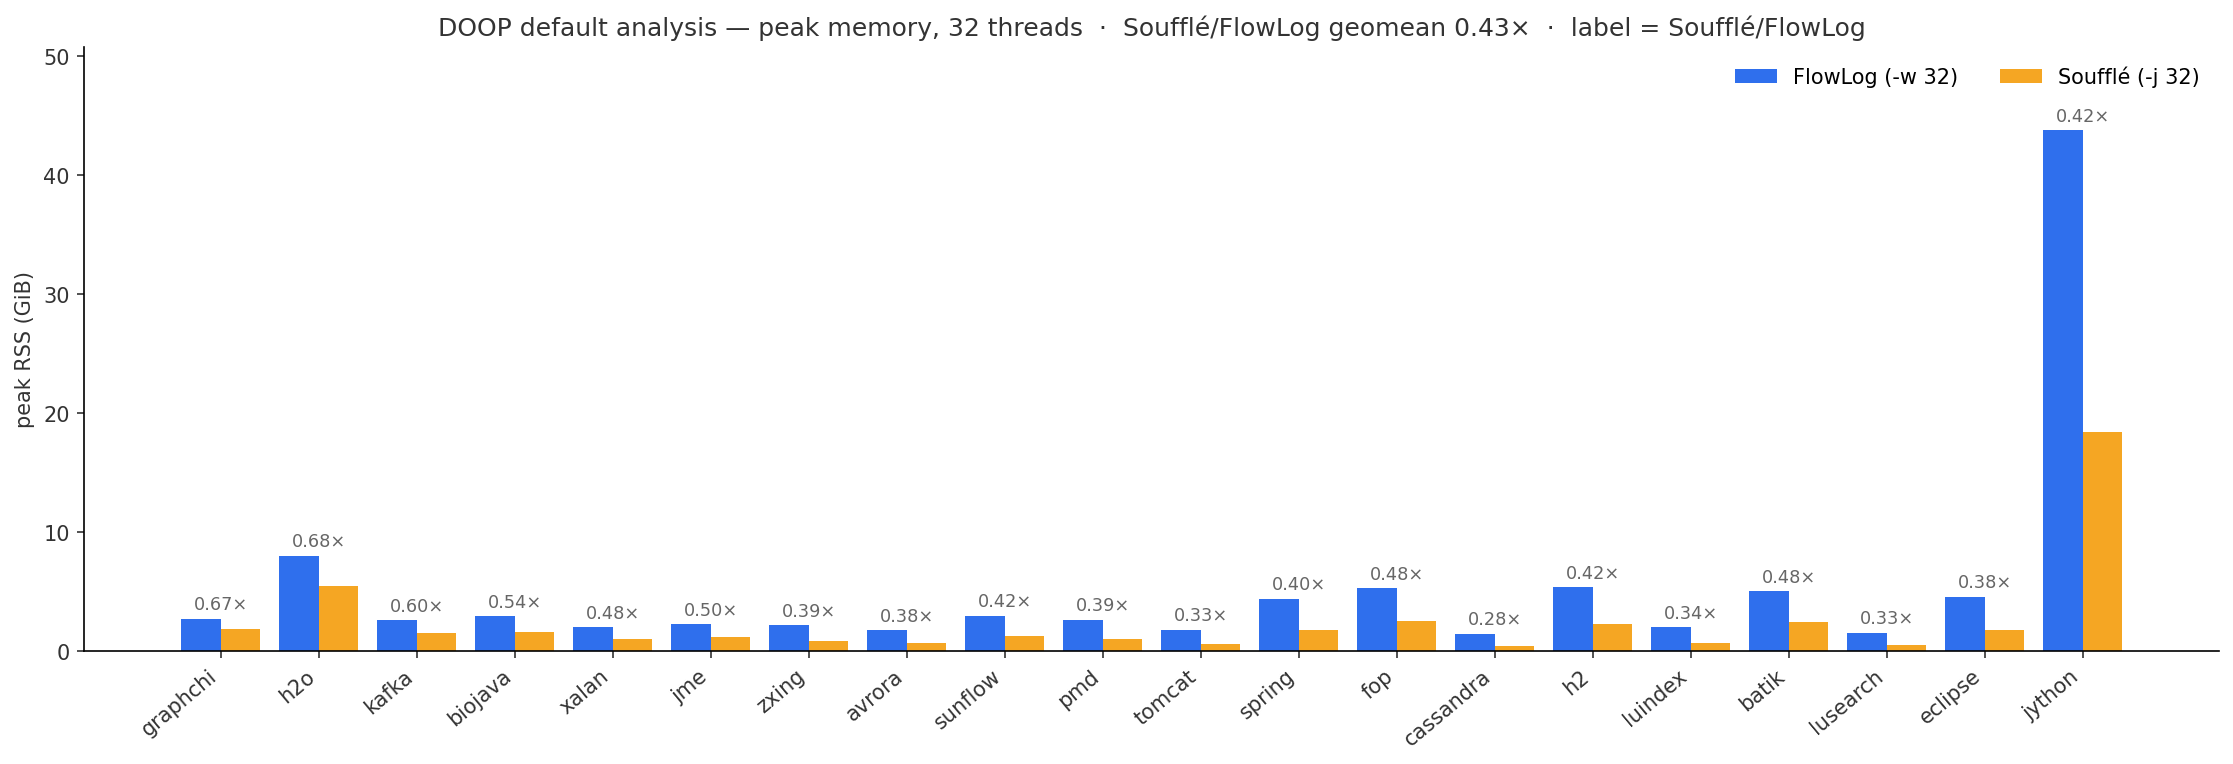
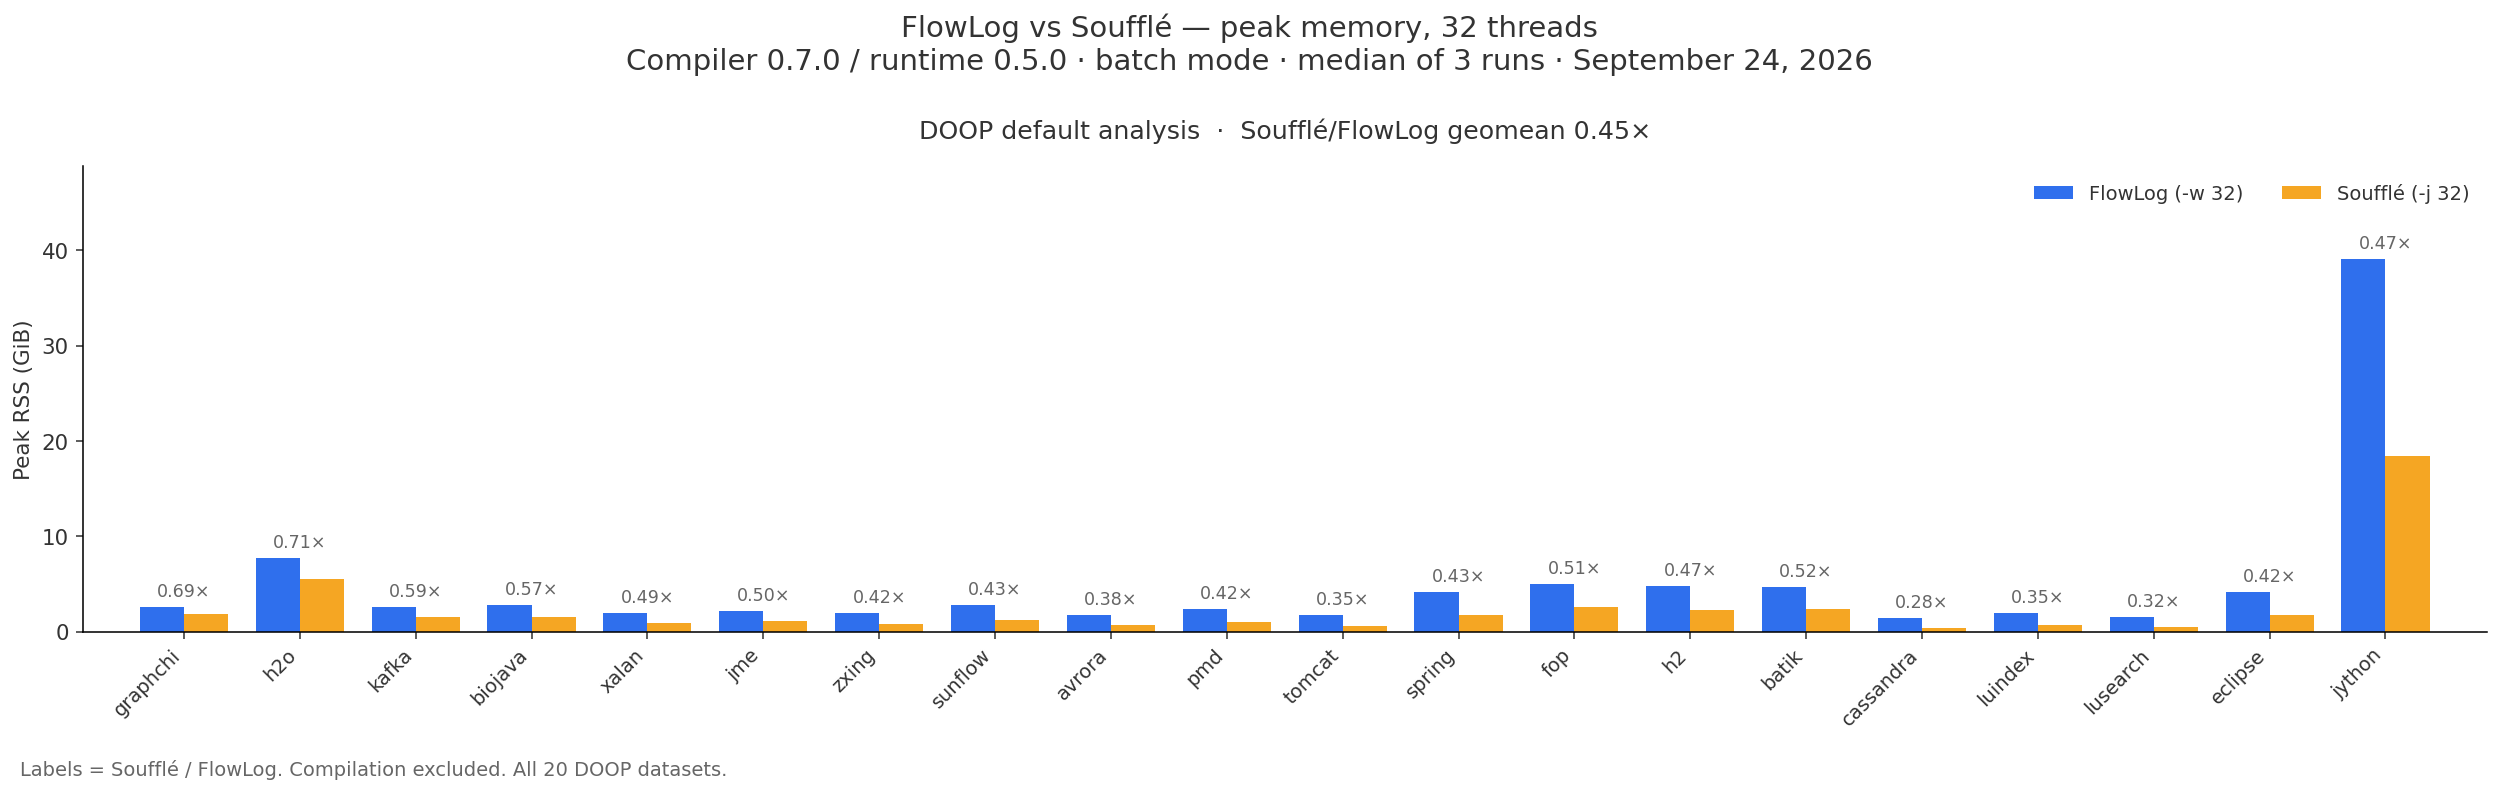
docs: refresh 32-thread benchmark results
Update the README and DOOP plots from the September 24 compiler 0.7.0/runtime 0.5.0 benchmark. Link the complete results and distinguish shared row-count parity from tuple equality.

Copilot-Session: f7d0db5c-c3c6-46b2-bc73-14ab6b4aff73

diff --git a/README.md b/README.md
@@ -15,7 +15,7 @@
 
 > **status** · under active development; interfaces may change.
 
-FlowLog compiles Datalog into efficient and scalable [Differential Dataflow](https://github.com/TimelyDataflow/differential-dataflow) rust executables.</h3> As such, FlowLog has first-class **incremental maintenance** — outputs update without recomputation as facts change. On DOOP points-to it runs **~3.6× faster than Soufflé** across 20 DaCapo programs (32 threads).
+FlowLog compiles Datalog into efficient and scalable [Differential Dataflow](https://github.com/TimelyDataflow/differential-dataflow) rust executables.</h3> As such, FlowLog has first-class **incremental maintenance** — outputs update without recomputation as facts change. On DOOP points-to, [batch execution is **3.68× faster than Soufflé**](#benchmarks) across 20 DaCapo datasets (geometric mean, 32 threads).
 
 ## Quick Start
 
@@ -131,23 +131,59 @@ $ flowlog-compiler <PROGRAM> [OPTIONS]
 
 A green oracle run is the definition of correct — see [`tests/README.md`](tests/README.md) for per-suite contracts and recipes.
 
-### vs Soufflé — DOOP
+## Benchmarks
 
-On DOOP **default** points-to analysis (`doop/default.dl`) across all 20 [DaCapo](https://www.dacapobench.org/) programs at **32 threads** (FlowLog `-w 32`, Soufflé `-j 32`). The Soufflé program is the same `default.dl` of identical rules and join order; all 20 produce **identical `VarPointsTo`**.
+Measured September 24, 2026 with **FlowLog compiler 0.7.0 / runtime 0.5.0
+(batch mode)** and **Soufflé 2.5**, using the same **32 physical cores** on an
+AMD EPYC 7763 host. FlowLog was compiled with `--mode batch --str-intern` and
+run with `-w 32`; Soufflé was **both compiled and run with `-j 32`**.
+
+Times are median whole-process wall times over three runs per engine and
+case, **including input loading and excluding compilation**. Profiling was
+disabled. Memory is the median of per-run peak RSS.
+
+| Scope | Comparisons | FlowLog faster | Geometric-mean speedup |
+|---|---:|---:|---:|
+| All supported cases | 50 | 49/50 | **5.78×** |
+| DOOP | 20 | 20/20 | **3.68×** |
+
+Speedup is Soufflé wall time / FlowLog wall time. All **300 executions**
+completed successfully. Soufflé used less peak memory in all 50 cases;
+the geometric-mean FlowLog/Soufflé peak-RSS ratio was **1.88×**.
+Five CC/SSSP cases without Soufflé translations were excluded.
+
+**[Full results table: all 55 case outcomes, including Jython][benchmark-table]**
+· [Results CSV][benchmark-csv] · [Methodology, all plots, and reproduction][benchmark-report].
+
+**Row-count parity:** every shared reported relation count matched across
+engines and all three runs. This is **not tuple-by-tuple verification**.
+CSPA's `MemoryAlias` and `ValueAlias` counts were reported only by FlowLog
+and were not cross-checked.
+
+### DOOP default points-to
+
+The `doop/default.dl` analysis covers all **20 [DaCapo](https://www.dacapobench.org/)
+datasets, including Jython**. All **26 shared reported relation counts**,
+including `VarPointsTo`, matched for every dataset.
 
 <p align="center">
   <img src="docs/doop-time.png" alt="DOOP run time — FlowLog vs Soufflé" width="820"/>
 </p>
 
-**Run time** (run only; one-off compile excluded) — FlowLog is faster on **20/20**, geomean **3.62×** (range 1.41–6.07×).
+**Run time** — FlowLog's speedup ranges from **1.45× to 5.50×**.
 
 <p align="center">
   <img src="docs/doop-memory.png" alt="DOOP peak memory — FlowLog vs Soufflé" width="820"/>
 </p>
 
-**Peak memory** — Soufflé is leaner: Soufflé/FlowLog geomean **0.43×** (FlowLog trades memory for speed).
+**Peak memory** — Soufflé is leaner on all 20 datasets:
+the geometric-mean FlowLog/Soufflé peak-RSS ratio is **2.20×**.
 
 Benchmark suite: [`flowlog-bench`](https://github.com/flowlog-rs/flowlog-bench).
+
+[benchmark-table]: https://github.com/flowlog-rs/flowlog-bench/blob/129a72fd17ee39ed7c038f55bd03dc0570185170/docs/benchmarks/2026-09-24/README.md#complete-results-table
+[benchmark-csv]: https://github.com/flowlog-rs/flowlog-bench/blob/129a72fd17ee39ed7c038f55bd03dc0570185170/docs/benchmarks/2026-09-24/all_results.csv
+[benchmark-report]: https://github.com/flowlog-rs/flowlog-bench/blob/129a72fd17ee39ed7c038f55bd03dc0570185170/docs/benchmarks/2026-09-24/README.md
 
 ## Publication
 
